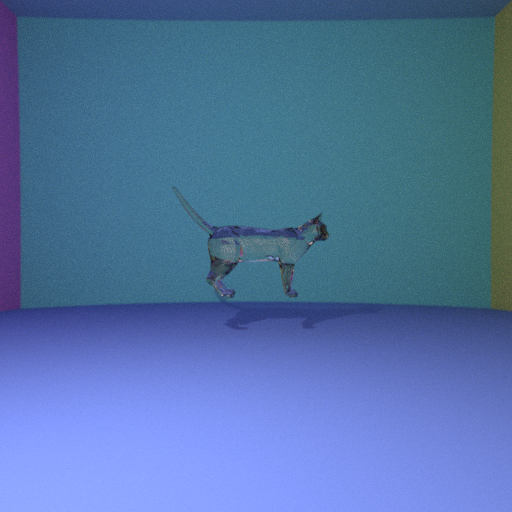
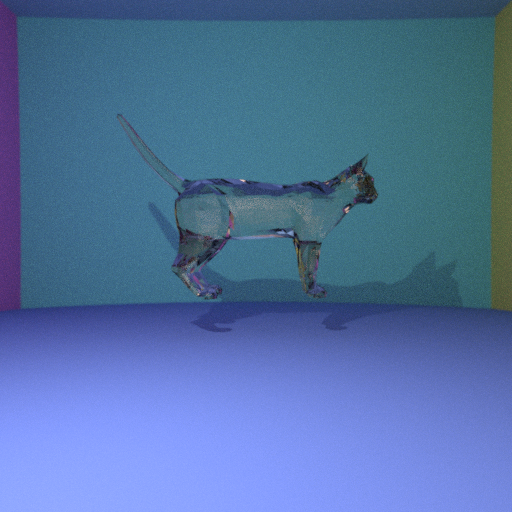
bigger cat

Changed region(s): [[0.25, 0.25, 0.9062, 0.6562], [0.625, 0.625, 0.6875, 0.6562], [0.2188, 0.2188, 0.25, 0.25]]

diff --git a/main.cpp b/main.cpp
@@ -614,7 +614,7 @@ int main() {
     TriangleMesh cat(Vector(1.0, 1.0, 1.0), false, true); // transparent car!!
 
     cat.readOBJ("cat/Models_F0202A090/cat.obj");
-    cat.scale_translate(0.3, Vector(0.0, -5.0, 0.0));
+    cat.scale_translate(0.5, Vector(0.0, -5.0, 0.0));
     cat.compute_bounding_box();
 
     Scene scene;
